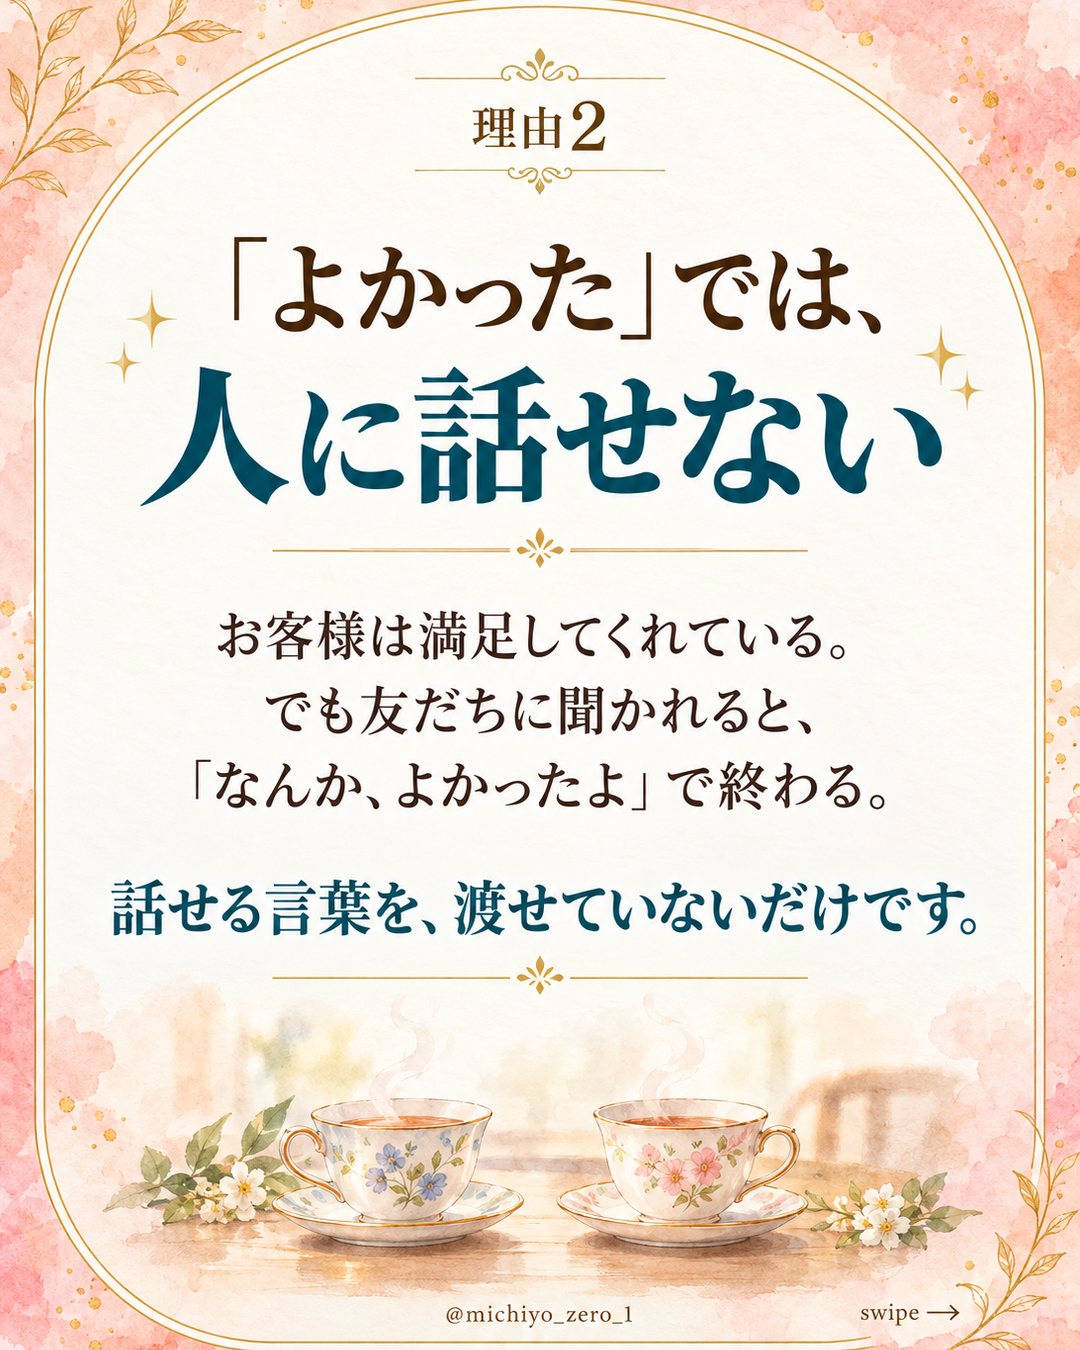
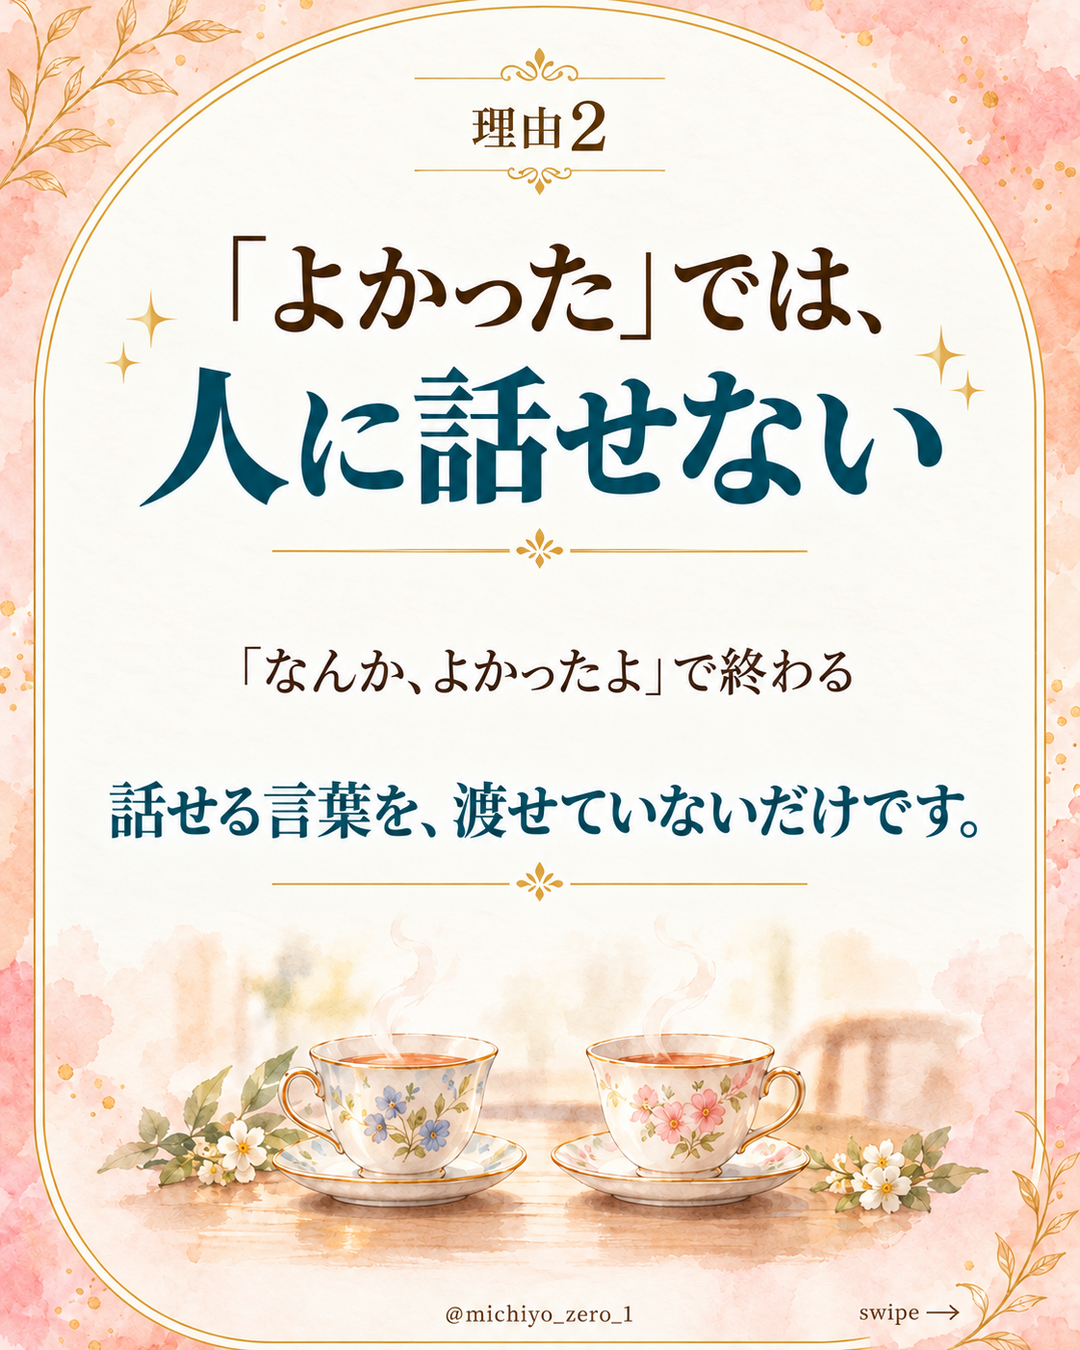
Simplify Instagram slide 5 body (image and text)
Claude-Session: https://claude.ai/code/session_013rDv8bkWzB59JhxLj6Y43J

diff --git a/sns-posts/seminar_erabare-nou_yoko-toukou.md b/sns-posts/seminar_erabare-nou_yoko-toukou.md
@@ -226,9 +226,7 @@ https://www.reservestock.jp/page/consecutive_events/48264
 
 5枚目
 理由2　「よかった」では、人に話せない
-お客様は満足してくれている。
-でも友だちに聞かれると、
-「なんか、よかったよ」で終わる。
+「なんか、よかったよ」で終わる
 話せる言葉を、渡せていないだけです。
 
 6枚目
